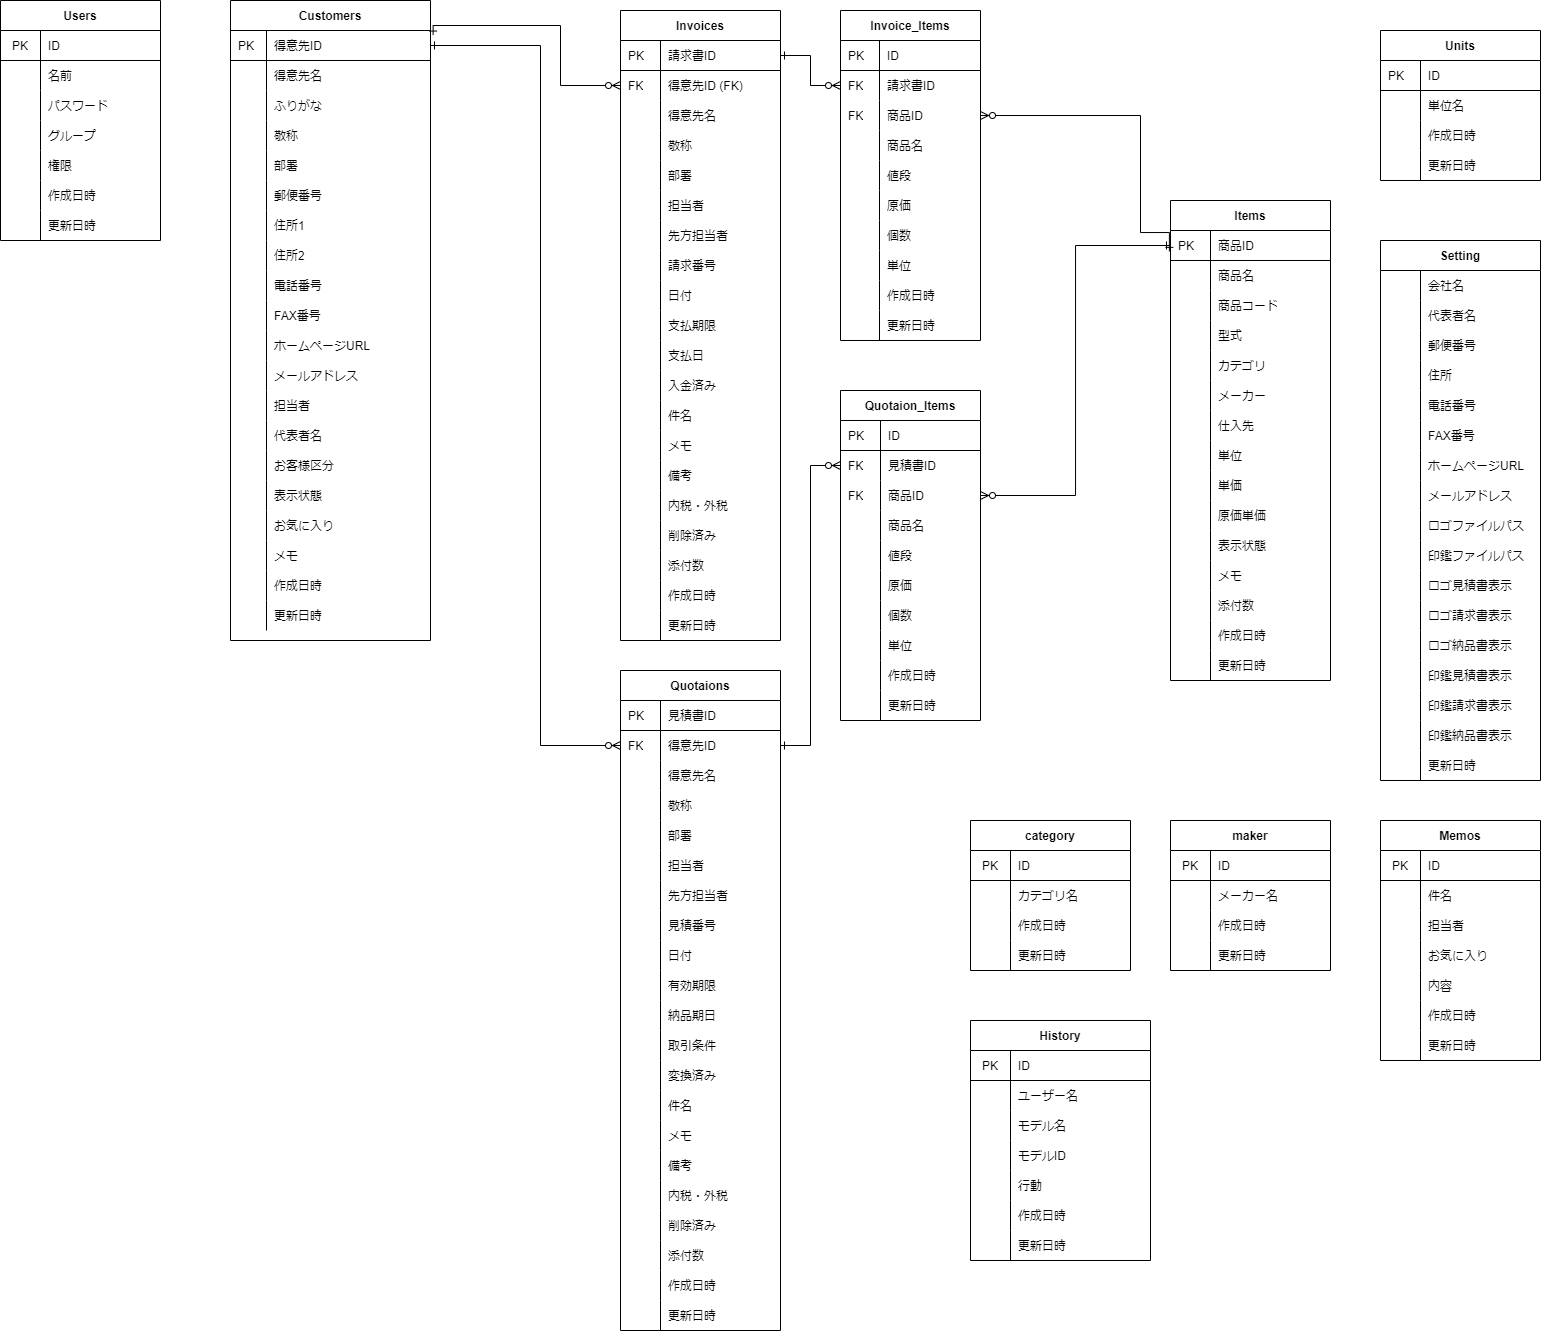
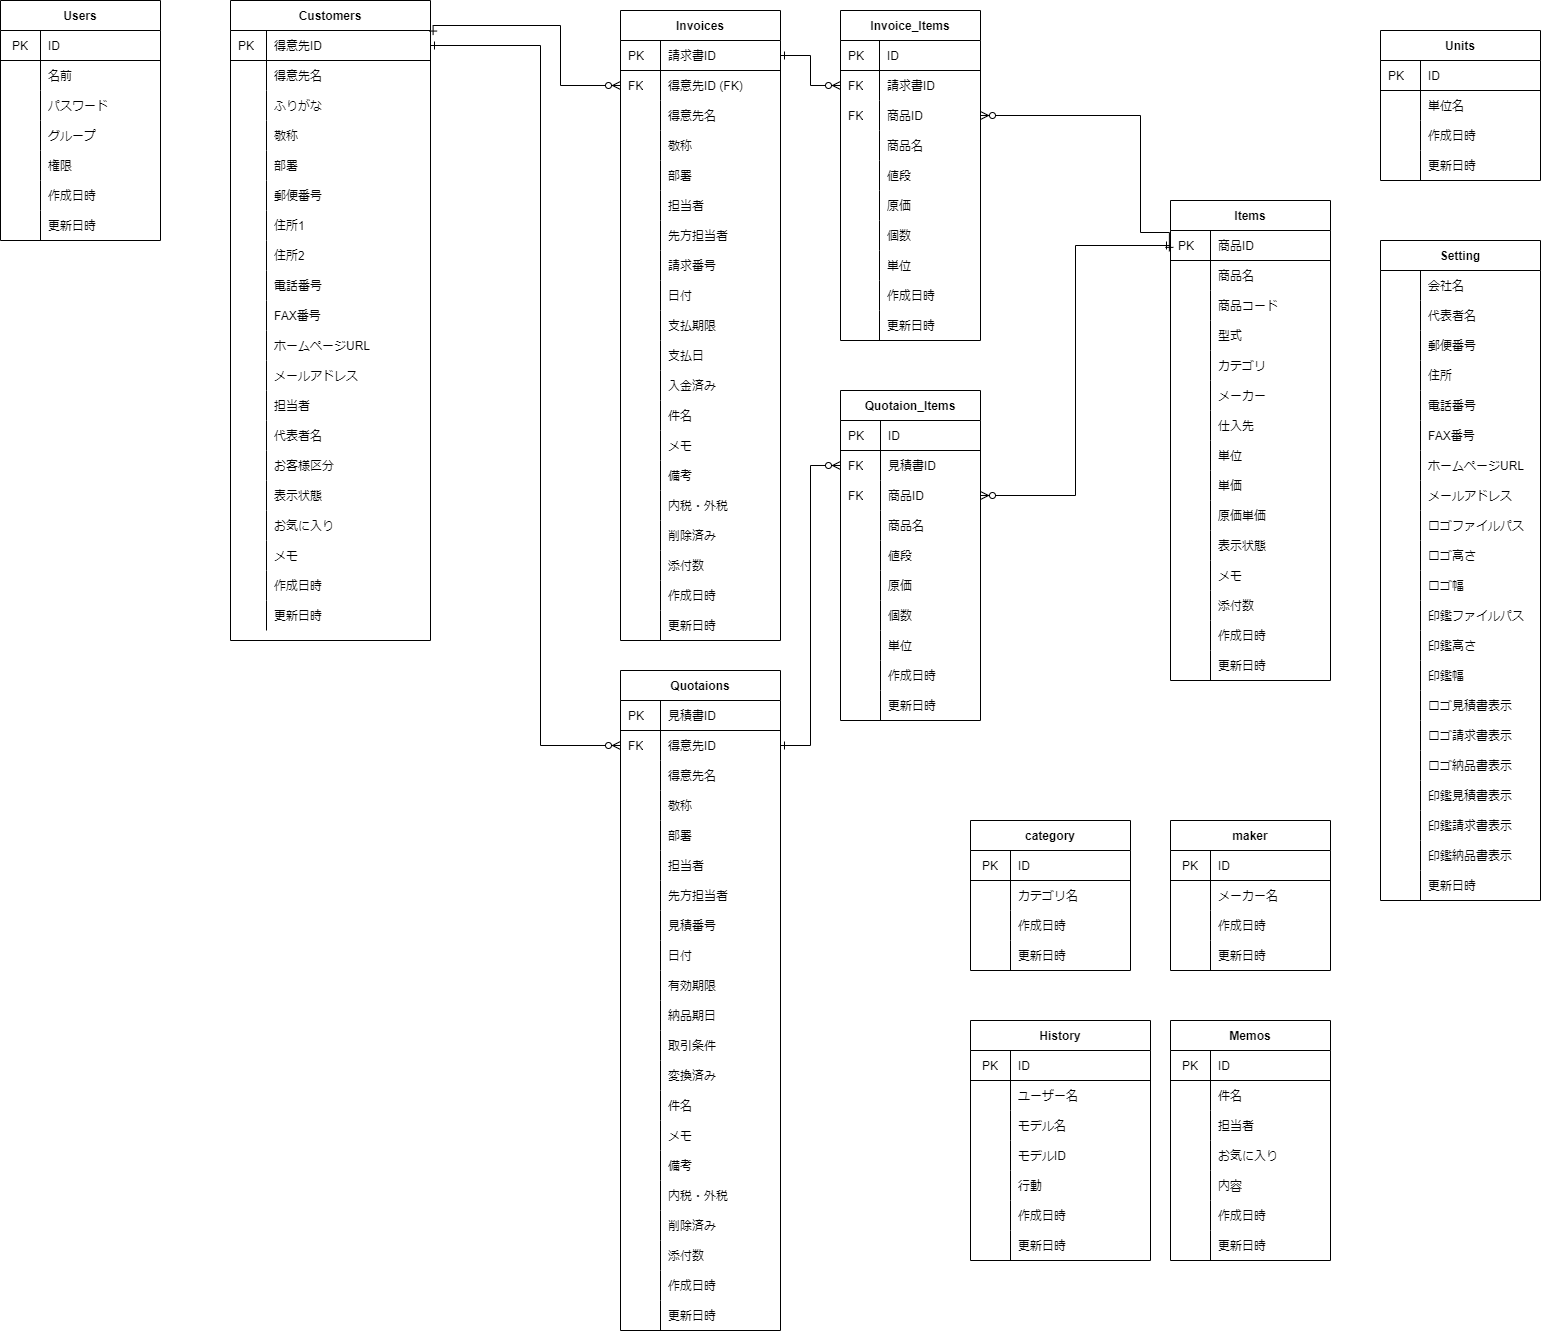
ロゴ・印鑑サイズのカラム追加。設定ページにサイズ入力欄追加。

diff --git a/app/templates/setting.html b/app/templates/setting.html
@@ -183,6 +183,17 @@
                                         <input hidden type="file" name="file" id="logo-dropzone" multiple>
                                     </form>
                                     <span>ここにロゴ用ファイルをドロップしてください。</span>
+                                    <b-form-group label-cols="4" label-size="sm" label="高さ" label-for="logoHeight"
+                                        class="mt-3">
+                                        <b-form-input v-model="setting.logoHeight" id="logoHeight" size="sm"
+                                            type="number">
+                                        </b-form-input>
+                                    </b-form-group>
+                                    <b-form-group label-cols="4" label-size="sm" label="幅" label-for="logoWidth">
+                                        <b-form-input v-model="setting.logoWidth" id="logoWidth" size="sm"
+                                            type="number">
+                                        </b-form-input>
+                                    </b-form-group>
                                 </b-col>
                                 <b-col cols="1"></b-col>
                                 <b-col sm>
@@ -193,6 +204,17 @@
                                         <input hidden type="file" name="file" id="stamp-dropzone" multiple>
                                     </form>
                                     <span>ここに印鑑用ファイルをドロップしてください。</span>
+                                    <b-form-group label-cols="4" label-size="sm" label="高さ" label-for="stampHeight"
+                                        class="mt-3">
+                                        <b-form-input v-model="setting.stampHeight" id="stampHeight" size="sm"
+                                            type="number">
+                                        </b-form-input>
+                                    </b-form-group>
+                                    <b-form-group label-cols="4" label-size="sm" label="幅" label-for="stampWidth">
+                                        <b-form-input v-model="setting.stampWidth" id="stampWidth" size="sm"
+                                            type="number">
+                                        </b-form-input>
+                                    </b-form-group>
                                 </b-col>
                                 <b-col cols="1"></b-col>
                             </b-row>
@@ -263,12 +285,13 @@
                     </template>
                     <div class="d-block text-center">
                         <p>
-                            ver:1.0<br/>
+                            ver:1.0<br />
                             Copyright © 2022-2022 Crescom inc. All Rights Reserved.
                         </p>
                         <p>
-                            Released under the MIT license<br/>
-                            <a href="https://github.com/gamasenninn/soho-caddie/blob/main/LICENSE">https://github.com/gamasenninn/soho-caddie/blob/main/LICENSE</a>
+                            Released under the MIT license<br />
+                            <a
+                                href="https://github.com/gamasenninn/soho-caddie/blob/main/LICENSE">https://github.com/gamasenninn/soho-caddie/blob/main/LICENSE</a>
                         </p>
                     </div>
                 </b-modal>

diff --git a/app/seeder.py b/app/seeder.py
@@ -225,7 +225,7 @@ def seeder():
     print('----Setting----')
     setting = [
         Setting(id=1, companyName='自社株式会社', representative='自社代表者', postNumber='000-0000', address='宇都宮市北若松原', telNumber='000-0000-0000', faxNumber='000-0000-0000', url='mypage.com', email='mymail@co.jp', logoFilePath='./static/asset/logo/logo2.jpg',
-                stampFilePath='./static/asset/stamp/inkan.png', isDisplayQuotationLogo=True, isDisplayInvoiceLogo=True, isDisplayDeliveryLogo=True, isDisplayQuotationStamp=True, isDisplayInvoiceStamp=True, isDisplayDeliveryStamp=True)
+                logoHeight=100, logoWidth=100, stampFilePath='./static/asset/stamp/inkan.png', stampHeight=100, stampWidth=100, isDisplayQuotationLogo=True, isDisplayInvoiceLogo=True, isDisplayDeliveryLogo=True, isDisplayQuotationStamp=True, isDisplayInvoiceStamp=True, isDisplayDeliveryStamp=True)
     ]
     db.session.add_all(setting)
     db.session.commit()

diff --git a/app/api.py b/app/api.py
@@ -1263,7 +1263,11 @@ def setting_update(id):
     setting.url = data.get('url')
     setting.email = data.get('email')
     setting.logoFilePath = data.get('logoFilePath')
+    setting.logoHeight = data.get('logoHeight')
+    setting.logoWidth = data.get('logoWidth')
     setting.stampFilePath = data.get('stampFilePath')
+    setting.stampHeight = data.get('stampHeight')
+    setting.stampWidth = data.get('stampWidth')
     setting.isDisplayQuotationLogo = data.get('isDisplayQuotationLogo')
     setting.isDisplayInvoiceLogo = data.get('isDisplayInvoiceLogo')
     setting.isDisplayDeliveryLogo = data.get('isDisplayDeliveryLogo')

diff --git a/app/models.py b/app/models.py
@@ -287,7 +287,11 @@ class Setting(db.Model):
     url = db.Column(db.String)
     email = db.Column(db.String)
     logoFilePath = db.Column(db.String)
+    logoHeight = db.Column(db.Integer)
+    logoWidth = db.Column(db.Integer)
     stampFilePath = db.Column(db.String)
+    stampHeight = db.Column(db.Integer)
+    stampWidth = db.Column(db.Integer)
     isDisplayQuotationLogo = db.Column(
         db.Boolean, nullable=False, default=True)
     isDisplayInvoiceLogo = db.Column(db.Boolean, nullable=False, default=True)

diff --git a/models.md b/models.md
@@ -224,7 +224,11 @@
 | url                     | ホームページURL  | text        |                          | 
 | email                   | メールアドレス   | text        |                          | 
 | logoFilePath            | ロゴファイルパス | text        |                          | 
-| stampFilePath           | 印鑑ファイルパス | text        |                          | 
+| logoHeight              | ロゴ高さ        | integer     |                          | 
+| logoWidth               | ロゴ幅          | integer     |                          | 
+| stampFilePath           | 印鑑ファイルパス | text        |                          |
+| stampHeight             | 印鑑高さ        | integer     |                          | 
+| stampWidth              | 印鑑幅          | integer     |                          |  
 | isDisplayQuotationLogo  | ロゴ見積書表示   | boolean     | 印刷時に表示するかどうか | 
 | isDisplayInvoiceLogo    | ロゴ請求書表示   | boolean     | 印刷時に表示するかどうか | 
 | isDisplayDeliveryLogo   | ロゴ納品書表示   | boolean     | 印刷時に表示するかどうか | 
